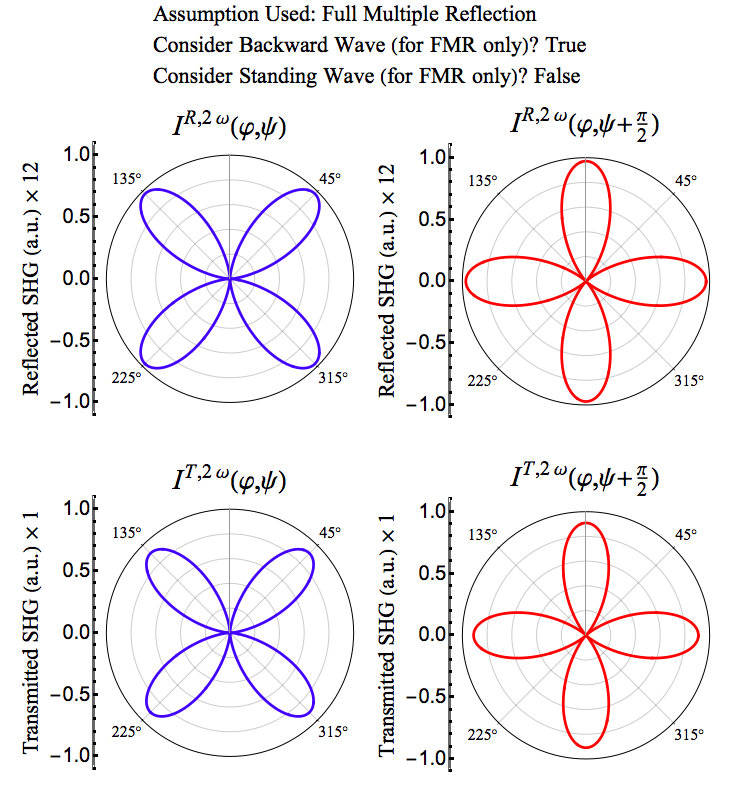
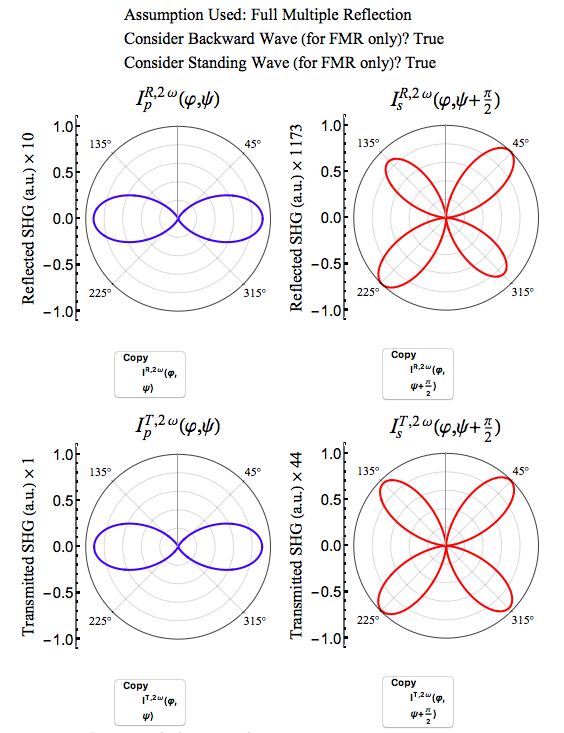
Based on v1.49

diff --git a/docs/examples.md b/docs/examples.md
@@ -31,7 +31,7 @@ We start by discussing the experimental details before proceeding to simulate th
 
 - Now click on `SHG Simulation` in the functionality sub-panel to define the experimental setup. Check  `Generate Maker Fringes Plot` to calculate the Maker Fringes pattern.
 
-- Select the assumption to use. By default, ♯SHAARP._ml_ uses full multiple reflections.
+- The full multiple reflection considering backward propagating waves along with standing waves is used for the simulation.
 
 - In the Maker fringes collection settings, enter the incident angle range for the Maker fringes simulation. We shall simulate the pattern for incident angles between 0$^{\circ}$ and 45$^{\circ}$. To do this, set the minimum incident angle to 0 and maximum incident angle to 45. This can be done by either dragging the sliders, clicking on the angle button or manually entering the angle.
 
@@ -48,7 +48,7 @@ We start by discussing the experimental details before proceeding to simulate th
 
 ## SHG Polarimetry
 
-In this section, we show how two SHG active layers can be used to determine the spontaneous polarization by SHG interference contrast. The experimental setup consists of a 50 $\mu$m layer of LiNbO<sub>3</sub> ($2 \bar{1} \bar{1} 0$) crystal on 10 $\mu$m (001) quartz. The fundamental light has a wavelength of 1550 nm and is incident on the multilayer normally. The polarization of the fundamental light is varied and the p-polarized SHG intensity is recorded. To set the direction of the spontaneous polarizations (along c axis), it is easier to specify the orientation using the crystal physics coordinate system $Z_1 Z_2 Z_3$. 
+In this section, we show how two SHG active layers can be used to determine the spontaneous polarization by SHG interference contrast. The experimental setup consists of a 50 $\mu$m layer of LiNbO<sub>3</sub> ($2 \bar{1} \bar{1} 0$) crystal on 35 $\mu$m (001) quartz. The fundamental light has a wavelength of 1550 nm and is incident on the multilayer normally. The polarization of the fundamental light is varied and the p-polarized SHG intensity is recorded. To set the direction of the spontaneous polarizations (along c axis), it is easier to specify the orientation using the crystal physics coordinate system $Z_1 Z_2 Z_3$. 
 
 ![pols](./img/pols.png)
 
@@ -69,7 +69,7 @@ In this section, we show how two SHG active layers can be used to determine the 
 
 - To define the orientation of the LiNbO<sub>3</sub> crystal, click on `Use Crystal Physics Direction` in the crystal orientation sub-panel. For the spontaneous polarization of LiNbO<sub>3</sub> to be oriented along the polarization vector for quartz, the crystal physics vectors in the lab coordinate system take the following values: $Z_1 = (0,0,1)$, $Z_2=(0,-1,0)$ and $Z_3=(1,0,0)$. 
 
-- Having defined the properties for LiNbO<sub>3</sub>, now click `2` in the material selection sub-panel to set the properties of the quartz layer. Give it a suitable name, say "quartz" and click `Quartz (001)` from the case study sub-panel. Now set the thickness to 10 ($\mu$m). The other properties for the quartz layer have already been provided. In general, the user would need to enter the values corresponding to the crystal and optical properties.
+- Having defined the properties for LiNbO<sub>3</sub>, now click `2` in the material selection sub-panel to set the properties of the quartz layer. Give it a suitable name, say "quartz" and click `Quartz (001)` from the case study sub-panel. Now set the thickness to 35 ($\mu$m). The other properties for the quartz layer have already been provided. In general, the user would need to enter the values corresponding to the crystal and optical properties.
 
 - Now click on `Update` to visualize the multilayer that has been defined. It should look like the figure below. 
 
@@ -78,7 +78,7 @@ The figure below the multilayer shows the relative orientation of the $Z_1 Z_2 Z
 
 - Click on `SHG Polarimetry` in the functionality sub-panel to generate the polar plots. If required, check `Generate Fresnel Coefficients Plot` and/or `Generate Maker Fringes Plot` to calculate the Fresnel coefficients and/or Maker fringes pattern.
 
-- The full multiple reflection considering backward propagating waves without any standing waves is used for the simulation.
+- The full multiple reflection considering backward propagating waves along with standing waves is used for the simulation.
 
 - From the polarimetry settings sub-panel, set the incident angle to 0 (normal incidence). Since the incident light is linearly polarized, the ellipticity is 0.
 
@@ -93,19 +93,13 @@ The figure below the multilayer shows the relative orientation of the $Z_1 Z_2 Z
 - Now, to generate the polar plots for the case where LiNbO<sub>3</sub> polarization is opposite to that of quartz, go back to `Set Material Properties` and select the LiNbO<sub>3</sub> layer by clicking `1` in the materials selection sub-panel. 
 - In the crystal orientation sub-panel, click `Use Crystal Physics Direction` and enter the following: $Z_1 = (0,0,1)$, $Z_2=(0,1,0)$ and $Z_3=(-1,0,0)$. 
 - Now click `Update` and go to `SHG Polarimetry` and click `Update` again to generate the polar plots under the same polarimetry settings. One observes that the SHG plots have changed.
-
-!!! note
-	While `Partial Analytical Expression` is best used for getting the SHG intensities when unknown thicknesses and/or SHG tensor elements are given, it can also be used to extract the expressions used for plotting the polar plots (for known thicknesses and SHG coefficients).
-
-- To visualize the results in the same plot, click `Partial Analytical Expression` and click `Update`. This gives the expressions of the SHG intensities. Copy $I^{T, 2 \omega}(\varphi, \psi)$ by clicking `Copy` next to it and assign it to a _Mathematica®_ function. 
-
-- Repeat the same by changing the crystal physics directions for the case of same direction polarization. Copy the transmitted SHG intensity and save it as a _Mathematica®_ function. 
+- To visualize the results in the same plot, click the  `Copy` button and assign it to a _Mathematica®_ function. Repeat the same by changing the crystal physics directions for the case of same direction polarization. Copy the transmitted SHG intensity and save it as a _Mathematica®_ function. 
 
 - Now use `PolarPlot[]` to plot both of these on the same plot. 
 
     ![comp](./img/comp.png)
 
-- One can also verify that the absence of the quartz layer results in the same SHG intensities for both the polarizations. To do this, go back to `Set Materials Properties` and remove the second layer and generate the expressions for the polar plot in the `Partial Analytical Expressions` tab. Repeat the same for the other direction of polarization (by changing the crystal physics coordinates) and save these as *Mathematica*® functions and use `PolarPlot[]` to plot them.
+- One can also verify that the absence of the quartz layer results in the same SHG intensities for both the polarizations. To do this, go back to `Set Materials Properties` and remove the second layer and copy the expressions for the polar plot. Repeat the same for the other direction of polarization (by changing the crystal physics coordinates) and save these as *Mathematica*® functions and use `PolarPlot[]` to plot them.
 
 ## Partial Analytical Expressions
 
@@ -131,5 +125,13 @@ This section explains how to obtain the reflected and transmitted SHG intensitie
 	In some cases, the derived expressions are too long to be displayed. In this case, the output panel displays "Too long to show". However, the user can still click `Copy` (`Export`)  to copy (export) the full expression.  
 
 -  This function can be used as a regular *Mathematica®* function.
+
 -  Click `Export` to save the expression in a `.mx` file. Give it a suitable name while saving. 
--  To load the expression, use `Import[]`. For example, `funcName[\[CurlyPhi]_, h1_, d14m1_] := Import["equationRp.mx"]`.
+
+-  To load the expression, use `Import[]`. Use the following code if the `.mx` file is saved in the same directory as that of the notebook:
+![import](./img/import.png)
+   
+   If the `.mx` file is saved in a different directory from the one where the current notebook is being executed, enter the path of the saved file in the `Import[]` function.
+   
+   
+

diff --git a/docs/output.md b/docs/output.md
@@ -39,6 +39,10 @@ The output panel occupies the major part of the graphical interface. The content
 
 -  The sub-panel shows the polar plots of the reflected and transmitted intensities of the second harmonic wave as a function of the incident polarization angle $\varphi$. $\psi$ refers to the analyzer angle. 
 -  The assumption used for the calculation is also mentioned. 
+-  Buttons are provided to copy the underlying (normalized) expressions to the clipboard which may then be assigned to a *Mathematica®* function having argument `\[CurlyPhi]_`.
+
+!!! note
+	$\varphi$ (`\[CurlyPhi]`) can be quickly entered in *Mathematica®* using the alias `Esc-j-Esc`.
 
 #### Fresnel Coefficients Figure
 
@@ -59,7 +63,7 @@ The output panel occupies the major part of the graphical interface. The content
 
 -  Plots of the calculated SHG intensity $I^{2 \omega}(\theta^i, \varphi, \psi)$ and $I^{2 \omega}(\theta^i, \varphi, \psi+90^{\circ})$ as a function of the incidence angle $\theta^i$ is calculated for fixed incident polarization angle $\varphi$ and fixed analyzer angle $\psi$ as provided in the `Maker Fringes Collection Settings` in the input panel. 
 -  The assumption used for the calculation is also mentioned. 
--  Buttons are also provided to copy the data to compare with experiments. The values are copied to the clipboard  as a list and may be pasted in a *Mathematica®* notebook.
+-  Buttons are also provided to copy the data to compare with experiments. The values are copied to the clipboard as a list and may be pasted in a *Mathematica®* notebook.
 
 ### Partial Analytical Expressions
 
@@ -68,11 +72,24 @@ The output panel occupies the major part of the graphical interface. The content
 ![partial_op](./img/partial_op_2w.png)
 
 -  This panel contains the partial analytical expressions of the fundamental and SHG reflectance and transmittance as a function of the polarizer angle $\varphi$ and the unknown parameters (thickness and/or SHG coefficients) as provided in the `Set Material Properties` tab in the input panel.
--  One may copy the derived analytical expressions by clicking on the `Copy` button or save the expression to a `.mx` file by clicking `Export`.
+
+-  One may copy the derived analytical expressions by clicking on the `Copy` button and assiging it to a *Mathematica®* function with arguments `\[CurlyPhi]_` and the unknown thicknesses (having form `hk`) and/or SHG coefficients (of the form `dijmk`). 
 
 !!! note
-	In some cases, the derived expressions are too long to be displayed. In this case, the user can still click `Copy` to copy the full expression which may be pasted in a *Mathematica®* notebook.
+	$\varphi$ (`\[CurlyPhi]`) can be quickly entered in *Mathematica®* using the alias `Esc-j-Esc`.
+
+-   To save the expression to a `.mx` file, click `Export` and give it a suitable name. To load the expression into a *Mathematica®* notebook, use the following code:
+
+   ![import](./img/import_op.png)
+   
+   If the `.mx` file is saved in a different directory from the one where the current notebook is being executed, enter the path of the saved file in the `Import[]` function.
 
 !!! note
-	The derived expressions are unsimplified; use `Simplify[]` or `FullSimplify[]`to simplify these expressions after copying.
+	In some cases, the derived expressions are too long to be displayed. In this case, the user can still click `Copy` to copy the full expression.
+
+!!! note
+	While `Partial Analytical Expression` is best used for getting the SHG intensities when unknown thicknesses and/or SHG tensor elements are given, it can also be used to extract the expressions used for plotting the polar plots (for known thicknesses and SHG coefficients). The expressions may differ from the expressions obtained using the `Copy` button below the SHG polar plots by a normalization factor.
+
+!!! note
+	The derived expressions are unsimplified; use `Simplify[]` or `FullSimplify[]`to simplify these expressions after copying if needed.
 
